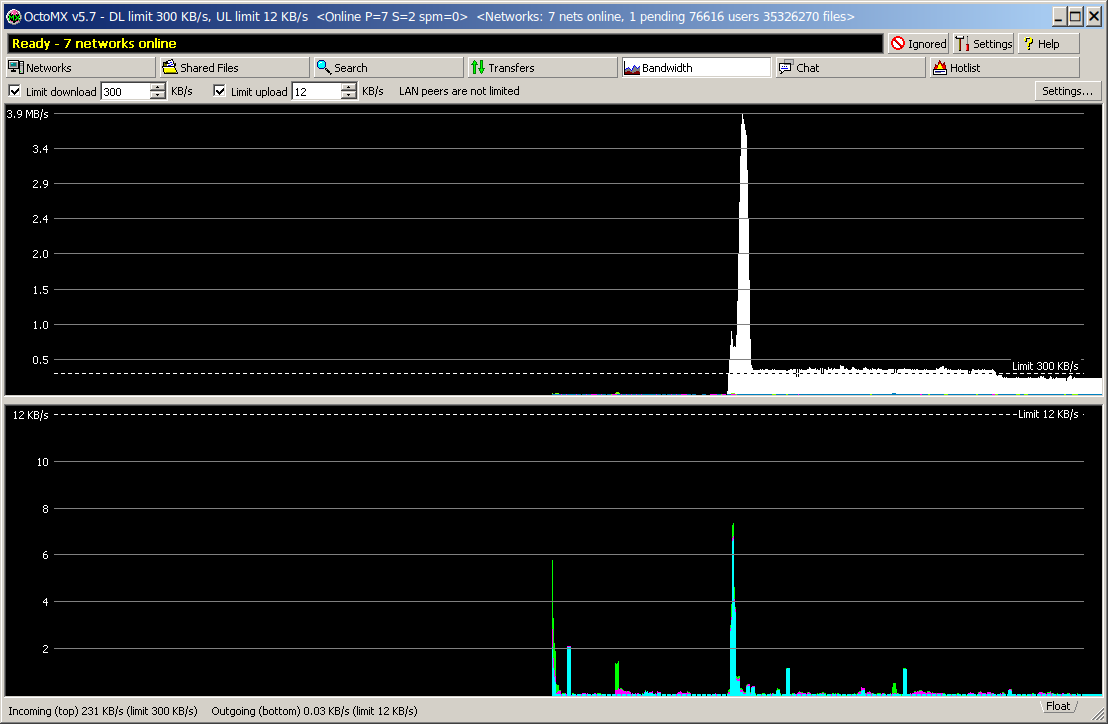
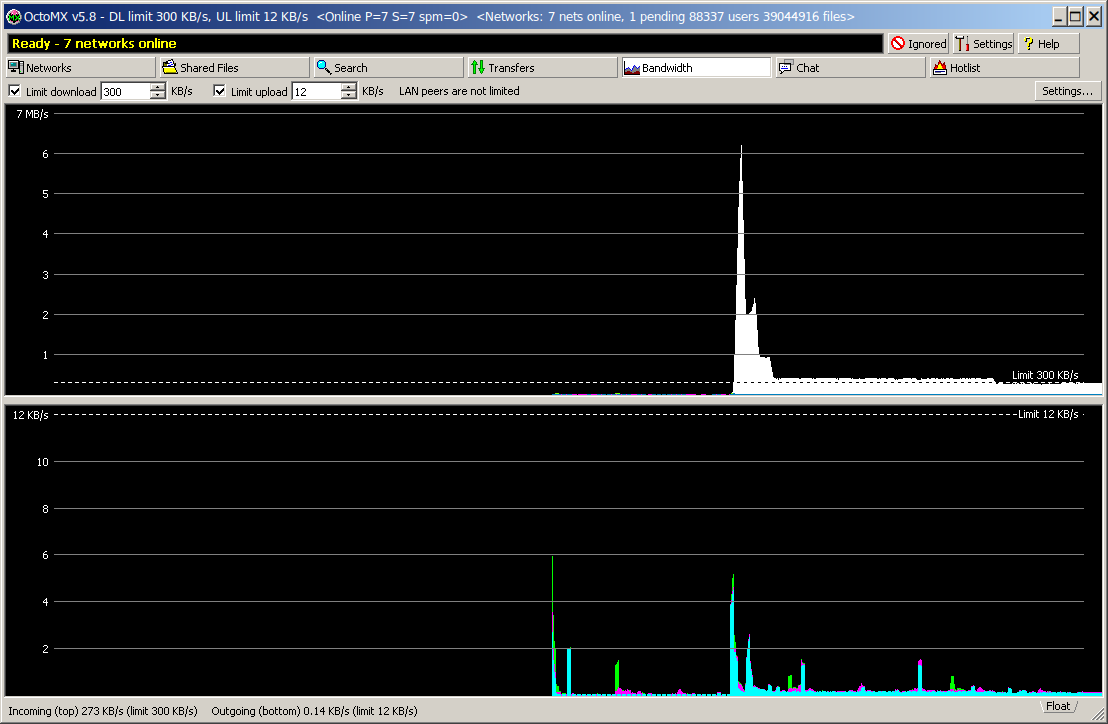
OctoMX 5.8: version and README pictures

diff --git a/src/ui/update_ui.h b/src/ui/update_ui.h
@@ -7,9 +7,9 @@
 // at most once a day unless updates/mode is "off", stays quiet unless a newer version that was not
 // skipped exists, and logs one line otherwise. What a newer release does depends on updates/mode:
 //   auto   (default) download it quietly, check the signature, unpack and check it next to the
-//          program, then the box "OctoMX 5.8 is ready to install" with Restart Now / Later / Skip
+//          program, then the box "OctoMX 5.9 is ready to install" with Restart Now / Later / Skip
 //          This Version (Later: installed when OctoMX is closed, a tray balloon says so once)
-//   ask    the box "OctoMX 5.8 is available" with Update Now (progress bar, then the same restart
+//   ask    the box "OctoMX 5.9 is available" with Update Now (progress bar, then the same restart
 //          question) / Remind Me Later / Skip This Version and the download page as a link
 //   notify the classic message box: Open Download Page / Remind Me Later / Skip This Version
 //   off    no check at start; Help ▸ Check for Updates... still asks
@@ -19,7 +19,7 @@
 // The install itself runs when OctoMX closes (finishOnExit(), called by main.cpp after the core has
 // shut down); after Restart Now the new version is started with the same options. At the next start
 // startupRecovery() finishes or undoes an interrupted swap and removes the old files; the first
-// start after an update shows "Updated to OctoMX 5.8" with a What's New link.
+// start after an update shows "Updated to OctoMX 5.9" with a What's New link.
 //
 // Network policy (tests and scripted runs never contact GitHub): the app sets On for a real core with
 // a user profile, IfUrlSet for a test or scripted run (MX_OS_ROOT is set), Off for
@@ -63,8 +63,8 @@ public:
     enum class State { Idle, Checking, Downloading, Preparing, Ready };
     struct Offer {
         Kind kind = Kind::Notify;
-        QString version;   // "5.8"
-        QString current;   // "5.7"
+        QString version;   // "5.9"
+        QString current;   // "5.8"
         QString notes;     // plain text excerpt
         QString pageUrl;   // what Open Download Page / What's New opens
         QString reason;    // why there is no automatic install (Notify), empty otherwise
@@ -88,11 +88,11 @@ public:
     bool startCheckDue() const;
     void scheduleStartCheck(int delayMs = -1);
     bool isChecking() const;
-    QString currentVersion() const;   // MX_VERSION_FULL, e.g. "5.7.0"
+    QString currentVersion() const;   // MX_VERSION_FULL, e.g. "5.8.0"
     QString mode() const;             // updates/mode: auto | ask | notify | off
     State state() const { return m_state; }
     QString readyVersion() const;     // the prepared update (State::Ready)
-    // one line for the About box: "OctoMX 5.7 is up to date" / "OctoMX 5.8 is available" / ...
+    // one line for the About box: "OctoMX 5.8 is up to date" / "OctoMX 5.9 is available" / ...
     QString statusLine() const;
 
     // show what a check with this answer would show (manual = the answers of Help ▸ Check for

diff --git a/src/ui/dialogs/about_dialog.cpp b/src/ui/dialogs/about_dialog.cpp
@@ -46,7 +46,7 @@ AboutDialog::AboutDialog(mx::Core *core, QWidget *parent) : QDialog(parent)
                            core->isMock() ? tr("\nDemo mode: no network connections are made.") : QString()));
     info->setObjectName(QStringLiteral("aboutText"));
     info->setGeometry(SR(56, 30, 450, 106));
-    // [upd-1] what the update check found, right of the title: "OctoMX 5.7 is up to date." / "... 5.8 is available ..."
+    // [upd-1] what the update check found, right of the title: "OctoMX 5.8 is up to date." / "... 5.9 is available ..."
     if (UpdateController *u = UpdateController::of(qobject_cast<MainWindow *>(parent))) {
         auto *upd = new QLabel(u->statusLine(), this);
         upd->setObjectName(QStringLiteral("aboutUpdateStatus"));

diff --git a/src/api/mx/types.h b/src/api/mx/types.h
@@ -16,10 +16,10 @@
 // [post-1] defined by the top-level CMakeLists.txt from project(OctoMX VERSION ...); these
 // fallbacks only serve a build without it
 #ifndef MX_VERSION_FULL
-#define MX_VERSION_FULL "5.7.0"
+#define MX_VERSION_FULL "5.8.0"
 #endif
 #ifndef MX_VERSION_STRING
-#define MX_VERSION_STRING "5.7"
+#define MX_VERSION_STRING "5.8"
 #endif
 
 namespace mx {

diff --git a/docs/UI_SPEC.md b/docs/UI_SPEC.md
@@ -1488,7 +1488,7 @@ Fidelity checks must treat these as intentional (the classic forms stay reachabl
   "Load Standard ... Defaults" buttons choose the theme and reset every colour.
 * **Help button** [post-1]: a click pops a small menu `About OctoMX...` (bold default) / `Check for
   Updates...` (F1 still opens About directly); the About box has `Check for Updates...` left of OK.
-  The update box is a classic message box titled `OctoMX`: "OctoMX 5.8 is available (you have 5.7)."
+  The update box is a classic message box titled `OctoMX`: "OctoMX 5.9 is available (you have 5.8)."
   with the first lines of the release notes as plain text and `Open Download Page` / `Remind Me Later`
   / `Skip This Version`. Settings ▸ Miscellaneous ▸ System Integration has an `Updates` group with
   "Check for a new version at start (at most once a day)" (updates/checkAtStart, default on).
@@ -1500,19 +1500,19 @@ Fidelity checks must treat these as intentional (the classic forms stay reachabl
   downloading a new version` (ask) / `Only tell me, I install it myself` (notify, the classic box) / `Do
   not check at start` (off). A profile with the earlier check box off gets `off` (migrated once).
   auto: the start check downloads a newer signed release quietly, then a small box titled `OctoMX`
-  (information icon, plain text) says "OctoMX 5.8 is ready to install (you have 5.7)." with the
+  (information icon, plain text) says "OctoMX 5.9 is ready to install (you have 5.8)." with the
   first lines of the release notes, "The download was checked against the OctoMX release
   signature.", with running downloads "Your 3 running downloads continue after the restart.", and
   `Restart Now` (default) / `Later` / `Skip This Version`; Later (also Escape or the close button)
   installs it when OctoMX is closed and a tray balloon says so once. ask, and always for Help ▸ Check
-  for Updates...: "OctoMX 5.8 is available (you have 5.7)." with `Update Now` (a box with a progress
+  for Updates...: "OctoMX 5.9 is available (you have 5.8)." with `Update Now` (a box with a progress
   bar, `Hide` / `Cancel`, then the ready box) / `Remind Me Later` / `Skip This Version` and `Open
   Download Page` as a link below the text. When the program cannot install a release itself (not a
   published package, a folder it cannot write, a release without signature, a download or check that
   failed), the classic box appears with the reason above the last line. The first start after an update
-  shows "Updated to OctoMX 5.8 (from 5.7)." with `What's New` (the release page) / `OK`. The About
-  box has one line under the description: "OctoMX 5.7 is up to date." / "OctoMX 5.8 is available
-  (you have 5.7)." / "... is ready to install ..." / "..., not checked for updates yet.".
+  shows "Updated to OctoMX 5.9 (from 5.8)." with `What's New` (the release page) / `OK`. The About
+  box has one line under the description: "OctoMX 5.8 is up to date." / "OctoMX 5.9 is available
+  (you have 5.8)." / "... is ready to install ..." / "..., not checked for updates yet.".
   Deviations: these boxes are not part of WinMX 3.53 (it had no updater); they are drawn as classic
   message boxes with our own buttons. Deliberate choices: the staging folder is inside the program
   folder (`.new-<version>`, same volume, only the program folder must be writable) instead of next
@@ -1725,7 +1725,7 @@ Fidelity checks must treat these as intentional (the classic forms stay reachabl
   BitTorrent piece hashes)`. With the setting `search/mergeByNameAndSize` off (default on), only plain
   files with equal normalised names merge (a bundle never meets a non-bundle).
 * **The name OctoMX** [ren-1] (owner: "as a name I choose OctoMX"; "OctoMX is the only version and
-  name we use"): every place where the program names itself says OctoMX (title `OctoMX v5.7`,
+  name we use"): every place where the program names itself says OctoMX (title `OctoMX v5.8`,
   `About OctoMX...`, `Exit OctoMX`, message box titles, the `OctoMX Peer Network` tabs and pages, the
   network name `OctoMX` in the Network columns, the default room `OctoMX Lobby`). Where it describes
   itself it says that its interface is in the style of the classic WinMX, with the statement that it

diff --git a/README.md b/README.md
@@ -42,7 +42,7 @@ responsibility; the authors are not responsible for the content exchanged with i
 start the program asks you to accept these terms before it connects to any network. See
 [Legal](#legal).
 
-Version 5.7 for Windows 10/11 (64-bit), Linux (x86_64) and macOS 14.4 or newer. Project page:
+Version 5.8 for Windows 10/11 (64-bit), Linux (x86_64) and macOS 14.4 or newer. Project page:
 https://github.com/robtacconelli/OctoMX
 
 > **Licence:** OctoMX is free software under the **GNU General Public License v3.0 or later**
@@ -94,9 +94,9 @@ built-in demo data:
 
 | | |
 |---|---|
-| **Windows** | Unzip `OctoMX-5.7-win64.zip` anywhere and double-click `octomx.exe`. Nothing is installed. Windows Firewall may ask whether OctoMX may accept connections. |
-| **Linux** | `tar xf OctoMX-5.7-linux-x86_64.tar.xz` and run `OctoMX-5.7-linux-x86_64/octomx`. Qt does not need to be installed. Run `./install-desktop-entry.sh` once for a menu entry and icon. |
-| **macOS** | Unzip `OctoMX-5.7-macos-universal.zip` (one app for Apple Silicon and Intel Macs, macOS 14.4 or newer) and drag `OctoMX.app` into Applications. The first time, right-click `OctoMX.app` and choose **Open**, then **Open** again (on macOS 15: System Settings > Privacy & Security > **Open Anyway**): the app has no Apple Developer ID signature. `README-mac.txt` in the archive has the details. |
+| **Windows** | Unzip `OctoMX-5.8-win64.zip` anywhere and double-click `octomx.exe`. Nothing is installed. Windows Firewall may ask whether OctoMX may accept connections. |
+| **Linux** | `tar xf OctoMX-5.8-linux-x86_64.tar.xz` and run `OctoMX-5.8-linux-x86_64/octomx`. Qt does not need to be installed. Run `./install-desktop-entry.sh` once for a menu entry and icon. |
+| **macOS** | Unzip `OctoMX-5.8-macos-universal.zip` (one app for Apple Silicon and Intel Macs, macOS 14.4 or newer) and drag `OctoMX.app` into Applications. The first time, right-click `OctoMX.app` and choose **Open**, then **Open** again (on macOS 15: System Settings > Privacy & Security > **Open Anyway**): the app has no Apple Developer ID signature. `README-mac.txt` in the archive has the details. |
 
 `SHA256SUMS` next to the archives has their checksums.
 
@@ -170,7 +170,7 @@ It listens on this computer only unless you allow your home network. The three c
 The last answer has the `url` for the player. Every call, the status of a stream and the safety rules
 are in [docs/API.md](docs/API.md).
 
-What to expect:
+Streaming works with every network, like a download. For a smooth stream:
 
 * **Pick a result by its `seeds`.** A torrent with many seeds starts in seconds and a skip takes a few
   seconds (measured with the open film Big Buck Bunny, about 350 seeds: first picture data usually

diff --git a/docs/API.md b/docs/API.md
@@ -84,7 +84,7 @@ Every answer is JSON. An error has a code and a sentence a person can read:
         ],
         "searches": 0,
         "streams": 0,
-        "version": "5.7"
+        "version": "5.8"
     }
 
 ### POST /api/v1/searches
